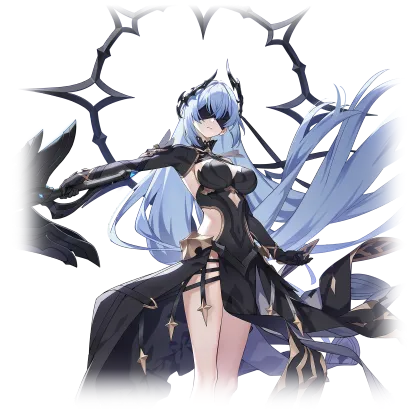
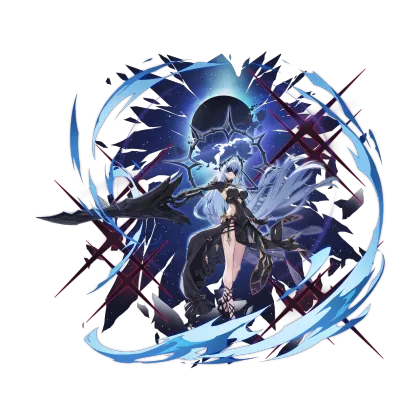
편성 카드 이미지: 배경 투명 5명(리디아 ANOTHER·그웬·세레스 ANOTHER·길레·편애의 마녀 아세라)을 데이터북 배경 일러스트로 교체, 수집기는 데이터북 우선·가이드 폴백
Claude-Session: https://claude.ai/code/session_0157ND6VJTTMFoJFs86s5aUg

diff --git a/tools/fetch_images.py b/tools/fetch_images.py
@@ -1,12 +1,19 @@
 # -*- coding: utf-8 -*-
-"""가이드 DB 의 구원자 초상화/일러스트를 내려받아 줄여서 assets/savior/<key>_face.webp, <key>_art.webp 로 저장한다.
+"""구원자 초상화/배경 일러스트를 assets/savior/<key>_face.webp, <key>_art.webp 로 저장한다.
+일러스트는 데이터북의 배경 포함 그림 우선, 없으면 가이드 DB 그림으로 폴백한다.
 원본은 tools/raw/savior/ 에 두고(저장소 제외), 요청 사이에 간격을 둔다.
-사용(cv2 필요, 가상환경은 저장소 밖): <venv>\\Scripts\\python.exe -X utf8 -I tools/fetch_images.py  (예: E:\\AI_mk2\\venv-img)"""
+사용(cv2 필요, 가상환경은 저장소 밖): <venv>\\Scripts\\python.exe -X utf8 -I tools/fetch_images.py
+  --art-only --keys lydia-moon-caster gille asherah-order-striker  # 얼굴은 그대로
+  --audit  # 현재 그림의 알파 비율 표(배경 유무와는 다름: 장식 가장자리도 투명함)
+"""
+import argparse
+import hashlib
 import os
 import sys
 import time
 import urllib.parse
 import urllib.request
+import urllib.error
 
 import cv2
 import numpy as np
@@ -20,6 +27,10 @@ RAW = os.path.join(ROOT, "tools", "raw", "savior")
 OUT = os.path.join(ROOT, "assets", "savior")
 UA = {"User-Agent": "Mozilla/5.0 (Windows NT 10.0; Win64; x64) AppleWebKit/537.36 Chrome/120 Safari/537.36"}
 FACE_PX, ART_W = 160, 420  # 얼굴: 정사각 가로 160, 일러스트: 가로 420(세로는 비율 유지)
+# 2026-11-12 확인: https://starsavior-databook.pages.dev/app.js 의 pair(x).
+# '일러스트' = img/ill/{id}.webp, '캐릭터만' = img/u/{id}.webp.
+# ID/이름/별칭은 data/main.js 의 units와 대조함(신규 1020·1061 포함).
+ILL_ROOT = "https://starsavior-databook.pages.dev/img/ill/"
 
 
 def get(url, dst):
@@ -27,16 +38,20 @@ def get(url, dst):
         return
     os.makedirs(os.path.dirname(dst), exist_ok=True)
     url = urllib.parse.quote(url, safe=":/%")  # 파일명에 한글이 있는 경우(예: 프로페서M.webp)
-    with urllib.request.urlopen(urllib.request.Request(url, headers=UA), timeout=30) as r:
-        data = r.read()
+    try:
+        with urllib.request.urlopen(urllib.request.Request(url, headers=UA), timeout=30) as r:
+            data = r.read()
+    finally:
+        time.sleep(0.4)  # 실패 후 폴백 요청에도 간격을 둔다. 병렬 다운로드하지 않음.
     with open(dst, "wb") as f:
         f.write(data)
-    time.sleep(0.3)
 
 
 def shrink(src, dst, width, q):
     # 투명 배경(알파)을 살린다. IMREAD_COLOR 로 읽으면 투명 부분이 흰/검 계단 무늬로 깨진다(2026-10-20 수정)
     a = cv2.imdecode(np.fromfile(src, dtype=np.uint8), cv2.IMREAD_UNCHANGED)
+    if a is None:
+        raise ValueError(f"이미지 디코딩 실패: {src}")
     if a.ndim == 2:
         a = cv2.cvtColor(a, cv2.COLOR_GRAY2BGR)
     h, w = a.shape[:2]
@@ -48,20 +63,67 @@ def shrink(src, dst, width, q):
     return len(buf)
 
 
+def raw_path(key, suffix, url):
+    # 출처를 바꿔도 이전 URL의 투명 원본을 재사용하지 않는다.
+    token = hashlib.sha256(url.encode("utf-8")).hexdigest()[:16]
+    ext = os.path.splitext(urllib.parse.urlsplit(url).path)[1]
+    return os.path.join(RAW, f"{key}_{suffix}_{token}{ext}")
+
+
+def save_image(key, suffix, urls, width, quality):
+    for url in dict.fromkeys(u for u in urls if u):
+        raw = raw_path(key, suffix, url)
+        try:
+            get(url, raw)
+            size = shrink(raw, os.path.join(OUT, f"{key}_{suffix}.webp"), width, quality)
+        except (urllib.error.URLError, TimeoutError, ValueError, cv2.error) as exc:
+            print("폴백", key, suffix, url, str(exc))
+            continue
+        print("저장", key, suffix, url)
+        return size
+    raise RuntimeError(f"사용 가능한 이미지 없음: {key} {suffix}")
+
+
+def audit(roster):
+    print("| key | 이름 / 구분 | 크기 | 투명 픽셀(alpha < 250) |")
+    print("|---|---|---|---:|")
+    for s in roster:
+        path = os.path.join(OUT, f"{s['key']}_art.webp")
+        a = cv2.imdecode(np.fromfile(path, dtype=np.uint8), cv2.IMREAD_UNCHANGED) if os.path.exists(path) else None
+        size, ratio = "없음", "-"
+        if a is not None:
+            size = f"{a.shape[1]}×{a.shape[0]}"
+            alpha = float(np.mean(a[:, :, 3] < 250)) if a.ndim == 3 and a.shape[2] == 4 else 0
+            ratio = f"{alpha:.2%}"
+        print(f"| {s['key']} | {s['name']} / {s['subtitle']} | {size} | {ratio} |")
+
+
 def main():
+    ap = argparse.ArgumentParser(description=__doc__)
+    ap.add_argument("--art-only", action="store_true")
+    ap.add_argument("--keys", nargs="+")
+    ap.add_argument("--audit", action="store_true")
+    args = ap.parse_args()
     roster = pr._json(pr.RECO)["saviors"]
-    por, art = bp.image_urls(roster)
+    if args.keys:
+        missing = set(args.keys) - {s["key"] for s in roster}
+        if missing:
+            ap.error("알 수 없는 key: " + ", ".join(sorted(missing)))
+        roster = [s for s in roster if s["key"] in args.keys]
+    if args.audit:
+        audit(roster)
+        return
+    idx = pr._json(os.path.join(pr.DATA, "saviors_index.json"))
+    por, art = bp.image_urls(roster, idx)
+    resolve_uid = bp.uid_resolver(idx)
     tot = 0
     for s in roster:
         k = s["key"]
-        for urls, suf, w, q in ((por, "face", FACE_PX, 85), (art, "art", ART_W, 80)):
-            u = urls.get(k)
-            if not u:
-                print("없음", k, suf)
-                continue
-            raw = os.path.join(RAW, f"{k}_{suf}" + os.path.splitext(u)[1])
-            get(u, raw)
-            tot += shrink(raw, os.path.join(OUT, f"{k}_{suf}.webp"), w, q)
+        if not args.art_only and por.get(k):
+            tot += save_image(k, "face", [por[k]], FACE_PX, 85)
+        uid = resolve_uid(k, s["name"])
+        preferred = f"{ILL_ROOT}{uid}.webp" if uid else None
+        tot += save_image(k, "art", [preferred, art.get(k)], ART_W, 80)
     print("저장", len(os.listdir(OUT)), "개", tot // 1024, "KB")
 
 
